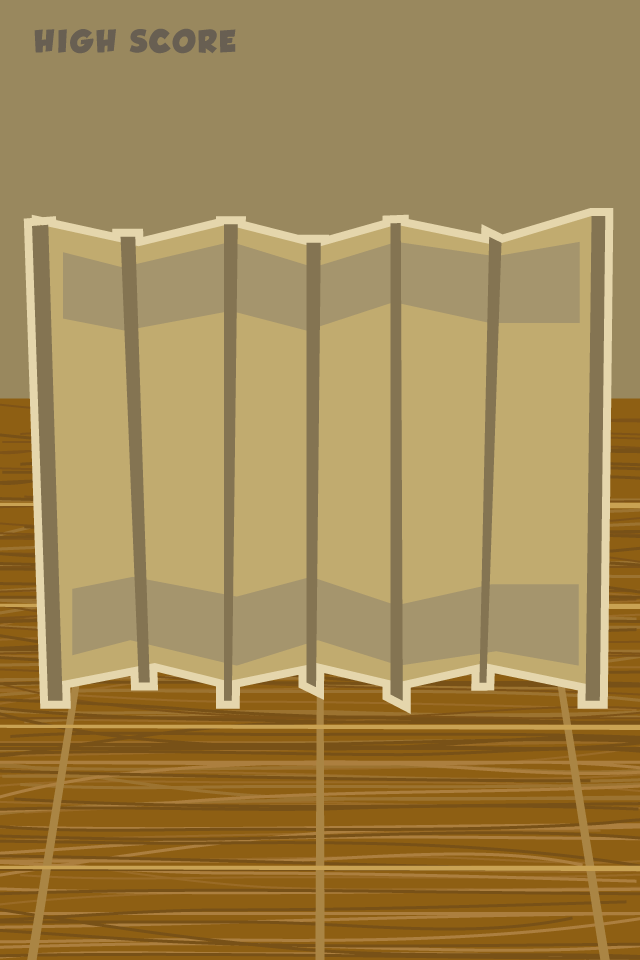
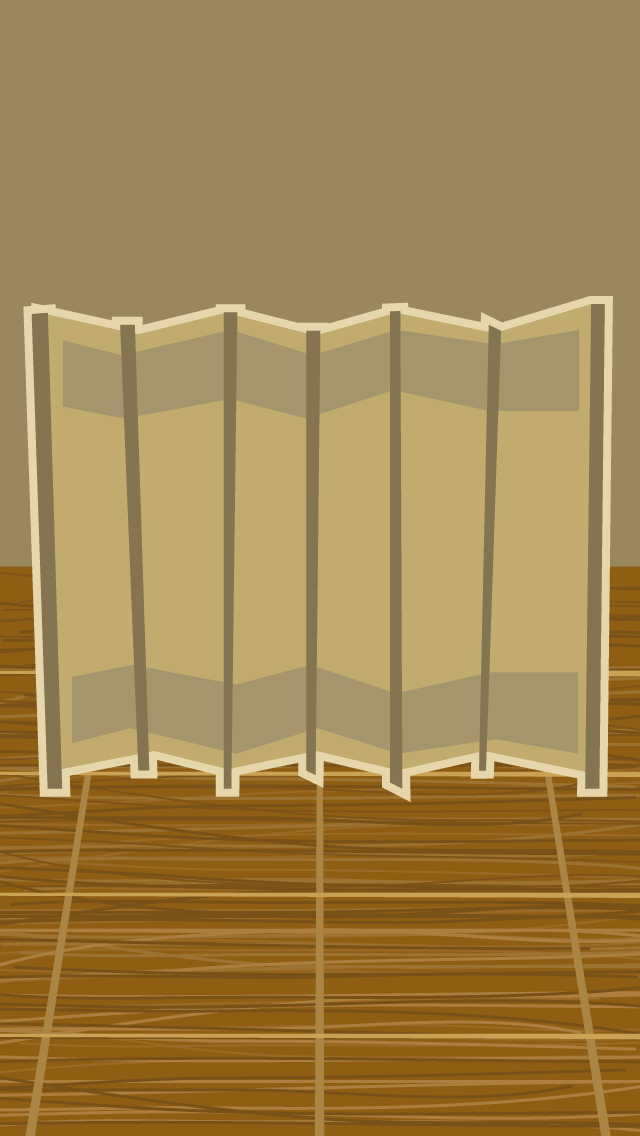
fixed main screen positioning for iPhone 4, 5

diff --git a/memoryDojo/MainMenuLayer.m b/memoryDojo/MainMenuLayer.m
@@ -58,24 +58,23 @@
         background.position = ccp(screenSize.width/2, screenSize.height/2);
         [self addChild:background z:-1];
         
-        // add menu background (black bar)
-#warning - modify position for iphone 4 and 5
-        CCLayerColor *menuBg = [CCLayerColor layerWithColor:ccc4(30, 30, 30, 255) width:screenSize.width height:60];
-        menuBg.anchorPoint = ccp(0, 0);
-        menuBg.position = ccp(0, 44);
-        [self addChild:menuBg z:0];
-        
         // add Memory Dojo title
         CCSprite *gameTitle = [CCSprite spriteWithSpriteFrameName:@"mainmenu_game_title.png"];
         gameTitle.anchorPoint = ccp(1, 1);
-        gameTitle.position = ccp(screenSize.width * 0.95f, screenSize.height * 0.90f);
+        gameTitle.position = ccp(screenSize.width * 0.95f, screenSize.height * 0.97f);
         [self addChild:gameTitle];
         
         // add high score
+        CCLabelBMFont *highScoreCopy = [CCLabelBMFont labelWithString:@"HIGH SCORE" fntFile:@"grobold_14px_nostroke.fnt"];
+        highScoreCopy.color = ccc3(104, 95, 82);
+        highScoreCopy.anchorPoint = ccp(0, 1);
+        highScoreCopy.position = ccp(screenSize.width * 0.05f, screenSize.height * 0.95f);
+        [self addChild:highScoreCopy];
+        
         CCLabelBMFont *highScoreLabel = [CCLabelBMFont labelWithString:[NSString stringWithFormat:@"%i", [GameManager sharedGameManager].highScore] fntFile:@"grobold_25px_nostroke.fnt"];
         highScoreLabel.color = ccc3(229, 214, 172);
-        highScoreLabel.anchorPoint = ccp(0, 0.5);
-        highScoreLabel.position = ccp(screenSize.width * 0.05f, screenSize.height * 0.84f);
+        highScoreLabel.anchorPoint = ccp(0, 1);
+        highScoreLabel.position = ccp(highScoreCopy.position.x, highScoreCopy.position.y - highScoreCopy.boundingBox.size.height * 1.1f);
         [self addChild:highScoreLabel];
         
         self.ninja = [[Ninja alloc] initFromScene:kSceneTypeMainMenu];
@@ -215,19 +214,25 @@
 
 -(void)displayMainMenu {
     CGSize screenSize = [CCDirector sharedDirector].winSize;
+    
+    // add menu background (black bar)
+    CCLayerColor *menuBg = [CCLayerColor layerWithColor:ccc4(30, 30, 30, 255) width:screenSize.width height:60];
+    menuBg.anchorPoint = ccp(0, 0);
+    menuBg.position = ccp(0, 0);
+    [self addChild:menuBg z:0];
 
     CCMenuItemImage *playGameButton = [CCMenuItemImage itemWithNormalSprite:[CCSprite spriteWithSpriteFrameName:@"mainmenu_button_start.png"] selectedSprite:[CCSprite spriteWithSpriteFrameName:@"mainmenu_button_start_pressed.png"] target:self selector:@selector(playGameScene)];
-    playGameButton.position = ccp(screenSize.width * 0.47f, screenSize.height * 0.13f);
+    playGameButton.position = ccp(screenSize.width * 0.47f, menuBg.boundingBox.size.height/2);
     
     CCMenuItemImage *settingsButton = [CCMenuItemImage itemWithNormalSprite:[CCSprite spriteWithSpriteFrameName:@"mainmenu_info.png"] selectedSprite:[CCSprite spriteWithSpriteFrameName:@"mainmenu_info_pressed.png"] target:self selector:@selector(showSettings)];
-    settingsButton.position = ccp(screenSize.width * 0.87f, screenSize.height * 0.13f);
+    settingsButton.position = ccp(screenSize.width * 0.87f, playGameButton.position.y);
     
     self.mainMenu = [CCMenu menuWithItems:playGameButton, settingsButton, nil];
 
     // set menu position at 0,0 so menu items can be set with a normal offset
     self.mainMenu.position = CGPointZero;
     
-    [self addChild:self.mainMenu];
+    [menuBg addChild:self.mainMenu];
 }
 
 -(void)disableAllMenus {

diff --git a/memoryDojo/LevelSelectionLayer.m b/memoryDojo/LevelSelectionLayer.m
@@ -92,22 +92,22 @@
     
     // add menu offscreen
     self.levelSelectionMenu = [CCMenu menuWithArray:[self.levelMenuItems getNSArray]];
-    self.levelSelectionMenu.position = ccp(-1 * self.levelMenuItemSize.width/2, screenSize.height * 0.49f);
+    self.levelSelectionMenu.position = ccp(-1 * self.levelMenuItemSize.width/2, screenSize.height * 0.488f);
     [self.levelSelectionMenu alignItemsVerticallyWithPadding:levelSelectionMenuSeparator.boundingBox.size.height];
     
     // add level selection separators
     for (int i=1; i<numberOfLevels; i++) {
-        CCLayerColor *separator = [CCLayerColor layerWithColor:ccc4(30, 30, 30, 255) width:157.5f height:5.1f];
+        CCLayerColor *separator = [CCLayerColor layerWithColor:ccc4(30, 30, 30, 255) width:157.5f height:5.2f];
         separator.ignoreAnchorPointForPosition = NO;
         separator.anchorPoint = ccp(0.5, 1);
-        separator.position = ccp(-1 * self.levelMenuItemSize.width/2, [(CCMenuItem*)[self.levelMenuItems objectAtIndex:i-1] position].y + self.levelSelectionMenu.position.y - self.levelMenuItemSize.height /2);
+        separator.position = ccp(-1 * self.levelMenuItemSize.width/2, [(CCMenuItem*)[self.levelMenuItems objectAtIndex:i-1] position].y + self.levelSelectionMenu.position.y - self.levelMenuItemSize.height/2 + 0.1f);
         [self addChild:separator z:100];
     }
     
     // level select button
     CCMenuItemImage *selectLevelButton = [CCMenuItemImage itemWithNormalSprite:[CCSprite spriteWithSpriteFrameName:@"mainmenu_level_select_tab.png"] selectedSprite:[CCSprite spriteWithSpriteFrameName:@"mainmenu_level_select_tab_pressed.png"] target:self selector:@selector(moveSelectLevelMenu)];
     selectLevelButton.anchorPoint = ccp(0, 0);
-    selectLevelButton.position = ccp(0, screenSize.height * 0.197f);
+    selectLevelButton.position = ccp(0, self.levelSelectionMenu.position.y + [(CCMenuItem*)[self.levelMenuItems objectAtIndex:numberOfLevels-1] position].y - self.levelMenuItemSize.height * 0.34f);
     
     CGSize selectLevelButtonSize = selectLevelButton.boundingBox.size;
     

diff --git a/memoryDojo/GameLayer.m b/memoryDojo/GameLayer.m
@@ -986,7 +986,6 @@
             [self addChild:self.level2AuraEmitter z:3];
             
             [self.level2AuraEmitter runAction:[CCSequence actions:[CCDelayTime actionWithDuration:0.5f], [CCBlink actionWithDuration:1 blinks:5], [CCDelayTime actionWithDuration:1.5f], [CCCallFunc actionWithTarget:self selector:@selector(showNinjaLevelUpScreen2)], nil]];
-            
             break;
         }
             

diff --git a/memoryDojo/GameManager.m b/memoryDojo/GameManager.m
@@ -105,7 +105,7 @@ static GameManager *_sharedGameManager = nil;   // singleton
         _highNinjaLevel = [defaults integerForKey:@"highNinjaLevel"];
         _ninjaLevel = [defaults integerForKey:@"currentLevel"];
         
-        _ninjaLevel = 5;
+        _ninjaLevel = 1;
         _highNinjaLevel = 6;
     }
     
